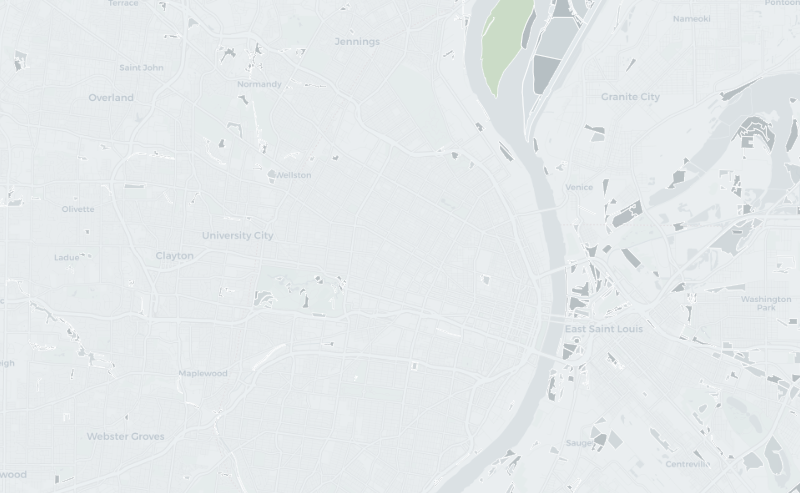
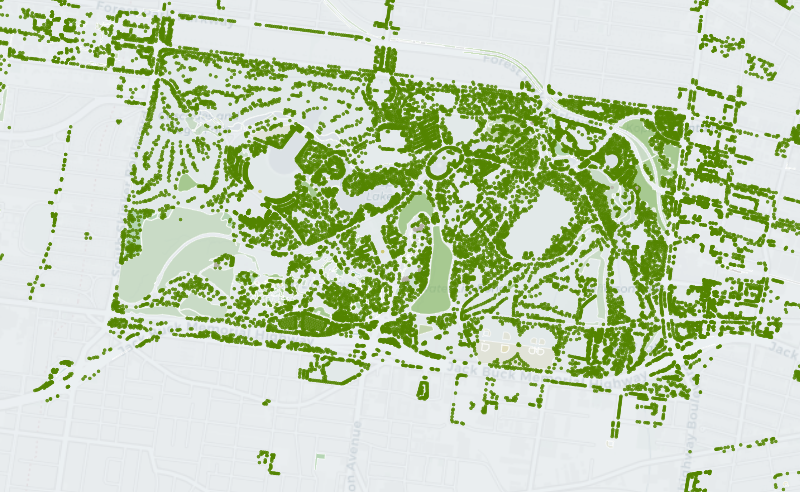
Tile addresses locally, unwash the land style, true up the numbers
Overture's global addresses tileset only exists at z14 and carries no
St. Louis data — and the gap is in the theme itself: the extract's 99k
points are all county/Illinois fringe (Wellston, Ferguson, Jennings,
Cahokia), with the city proper empty. So overture-addresses becomes the
one Overture collection tiled locally (OVERTURE_LOCAL in make_pmtiles),
z0-14 from its own parquet; styles, collection links, tests, and docs
all follow, and the description says plainly where the points are and
are not.

overture-land's default style painted the whole frame grey: below z13
the land layer is mostly the bare landmass polygon with no subtype, and
the match fallback colored it. Classed features only now, and the
thumbnail frames Forest Park at the zoom where its 61k trees exist.

Thumbnail renderer now declares each local archive's real maxzoom, so
close-ups past it overzoom instead of requesting tiles that don't exist.

Root description: 61 datasets / 7.3M rows (was 51 / 6.6M — the city-only
numbers), and the README example queries the post-reorg topic paths.

diff --git a/tools/make_styles.py b/tools/make_styles.py
@@ -1661,8 +1661,13 @@ from sources import OVERTURE_TILES, SOURCES as _ALL_SOURCES
 
 
 def ostyle(coll_id, name, description, layers, legend=None, legend_layer=None,
-           no_legend=False):
-    """Like style(), but sourced from Overture's remote theme pmtiles."""
+           no_legend=False, local=False):
+    """Like style(), but sourced from Overture's remote theme pmtiles.
+
+    local=True instead sources the collection's own clipped tiles (see
+    OVERTURE_LOCAL in make_pmtiles.py — addresses, whose global tileset has
+    no St. Louis coverage); layers then target source-layer == coll_id.
+    """
     theme = _ALL_SOURCES[coll_id]["theme"]
     if legend is not None:
         layers = [{
@@ -1675,13 +1680,13 @@ def ostyle(coll_id, name, description, layers, legend=None, legend_layer=None,
     meta = {"description": description}
     if no_legend:
         meta["legend"] = "none"
+    src_url = (f"pmtiles://../{coll_id}.pmtiles" if local
+               else f"pmtiles://{OVERTURE_TILES}/{theme}.pmtiles")
     obj = {
         "version": 8,
         "name": name,
         "metadata": meta,
-        "sources": {"data": {
-            "type": "vector",
-            "url": f"pmtiles://{OVERTURE_TILES}/{theme}.pmtiles"}},
+        "sources": {"data": {"type": "vector", "url": src_url}},
         "layers": layers,
     }
     if any(l["type"] == "symbol" for l in layers):
@@ -1849,22 +1854,27 @@ emit("overture-places", "style-confidence", ostyle(
                                    13, 2.5, 16, 5], stroke="#FFFFFF")],
     legend=PLACE_CONF, legend_layer="place"))
 
-# overture-addresses — 99k address points, z14 tiles only
+# overture-addresses — 99k address points. The one Overture collection on
+# LOCAL tiles: the global addresses tileset has no St. Louis coverage, so
+# these styles read the clipped z0-14 archive built by make_pmtiles.py.
 emit("overture-addresses", "default", ostyle(
     "overture-addresses", "Address points",
-    "Every address point in the box, in the catalog blue. The tiles carry "
-    "addresses only at z14 — zoom to street level to see them.",
-    [ocircle("address", BLUE, ["interpolate", ["linear"], ["zoom"],
-                               13, 1.5, 17, 4], stroke="#FFFFFF")]),
+    "Every address point in the box, in the catalog blue. Overture has no "
+    "address data for the city proper yet, so the points ring it — the "
+    "county and Illinois fringe. Thinned at overview zooms, complete "
+    "from z14.",
+    [ocircle("overture-addresses", BLUE,
+             ["interpolate", ["linear"], ["zoom"], 10, 1, 13, 1.5, 17, 4],
+             stroke="#FFFFFF")], local=True),
     default=True)
 emit("overture-addresses", "style-postcode", ostyle(
     "overture-addresses", "Postcode mosaic",
     "Repeating colors keyed on ZIP code, so postal boundaries emerge from "
     "the address points themselves. Colors are arbitrary.",
-    [ocircle("address", repeat_fill(["to-number", ["get", "postcode"]]),
-             ["interpolate", ["linear"], ["zoom"], 13, 1.5, 17, 4])],
+    [ocircle("overture-addresses", repeat_fill(["to-number", ["get", "postcode"]]),
+             ["interpolate", ["linear"], ["zoom"], 10, 1, 13, 1.5, 17, 4])],
     legend=repeat_fill(["to-number", ["get", "postcode"]]),
-    legend_layer="address", no_legend=True))
+    legend_layer="overture-addresses", no_legend=True, local=True))
 
 # overture-divisions — 283 features across three types. The country and
 # region areas are bbox clips of the full US/Missouri/Illinois polygons —
@@ -1947,15 +1957,19 @@ LAND_SUBTYPE = match("subtype", {
     "grass": "#95c68f", "sand": "#e0d59f", "rock": "#b6b1a8",
     "wetland": "#8fc6c0", "physical": "#c9c25e", "land": LIGHT}, GRAY)
 
+# Below z13 Overture's land layer is mostly the bare landmass polygon with
+# no subtype at all; unfiltered, the match fallback painted the whole map a
+# flat grey wash. Draw only classed features.
 emit("overture-land", "default", ostyle(
     "overture-land", "Land by subtype",
     "Physical land surfaces from OSM natural tags — forest, shrub, grass, "
     "sand, rock, wetland as polygons, and 61,000 individual trees as green "
-    "points.",
-    [ofill("land", LAND_SUBTYPE, 0.6, "#FFFFFF", filt=ONLY_POLY),
+    "points. The trees live at z13+ in the tiles — zoom in to see them.",
+    [ofill("land", LAND_SUBTYPE, 0.6, "#FFFFFF",
+           filt=["all", ONLY_POLY, ["has", "subtype"]]),
      ocircle("land", LAND_SUBTYPE,
              ["interpolate", ["linear"], ["zoom"], 10, 1, 14, 2.5, 16, 4],
-             filt=ONLY_POINT)],
+             filt=["all", ONLY_POINT, ["has", "subtype"]])],
     legend=LAND_SUBTYPE, legend_layer="land"), default=True)
 emit("overture-land", "style-trees", ostyle(
     "overture-land", "Trees",

diff --git a/tools/finalize_stac.py b/tools/finalize_stac.py
@@ -488,7 +488,17 @@ def finalize_overture(coll_id: str, coll_dir, f, coll: dict, src: dict) -> None:
         HOST,
     ]
 
-    tiles_url = f"{OVERTURE_TILES}/{src['theme']}.pmtiles"
+    # Addresses is the one Overture collection with locally built tiles —
+    # the global addresses tileset has no St. Louis coverage (see
+    # OVERTURE_LOCAL in make_pmtiles.py). Local archive present ⇒ local
+    # link/asset, exactly like a city collection.
+    local_pm = coll_dir / f"{coll_id}.pmtiles"
+    if local_pm.exists():
+        tiles_url = f"./{coll_id}.pmtiles"
+        pm_layers = [coll_id]
+    else:
+        tiles_url = f"{OVERTURE_TILES}/{src['theme']}.pmtiles"
+        pm_layers = list(src["types"])
     links = [l for l in coll.get("links", [])
              if l["rel"] not in ("self", "via", "pmtiles")]
     ensure_link(links, "describedby", "./README.md", "text/markdown")
@@ -504,7 +514,7 @@ def finalize_overture(coll_id: str, coll_dir, f, coll: dict, src: dict) -> None:
                 f"(theme={src['theme']}) on S3")
     links.append({"rel": "pmtiles", "href": tiles_url,
                   "type": "application/vnd.pmtiles",
-                  "pmtiles:layers": list(src["types"])})
+                  "pmtiles:layers": pm_layers})
     for l in links:
         if l["rel"] == "root":
             l["href"] = "../../catalog.json"
@@ -517,21 +527,35 @@ def finalize_overture(coll_id: str, coll_dir, f, coll: dict, src: dict) -> None:
     coll["links"] = links
 
     assets = coll.get("assets", {})
-    tiles = {
-        "href": tiles_url,
-        "type": "application/vnd.pmtiles",
-        "roles": ["visual"],
-        "title": f"Overture {src['theme']} theme (PMTiles, global)",
-        "description": (
-            "Overture's own release-pinned global vector tiles for the "
-            f"{src['theme']} theme, served from the Overture Maps "
-            "Foundation's public bucket — not from this mirror, and not "
-            "clipped to St. Louis. The styles select this collection's "
-            f"layers ({', '.join(src['types'])}) from them."),
-    }
-    size = overture_tile_size(src["theme"])
-    if size:
-        tiles["file:size"] = size
+    if local_pm.exists():
+        tiles = {
+            "href": tiles_url,
+            "type": "application/vnd.pmtiles",
+            "roles": ["visual"],
+            "title": f"{src['title']} (PMTiles)",
+            "description": (
+                "Vector tiles built from this collection's own clipped "
+                "GeoParquet — Overture's global addresses tileset has no "
+                "St. Louis coverage, so this mirror tiles the theme "
+                "locally."),
+        }
+        stamp_asset(coll_dir, tiles_url, tiles)
+    else:
+        tiles = {
+            "href": tiles_url,
+            "type": "application/vnd.pmtiles",
+            "roles": ["visual"],
+            "title": f"Overture {src['theme']} theme (PMTiles, global)",
+            "description": (
+                "Overture's own release-pinned global vector tiles for the "
+                f"{src['theme']} theme, served from the Overture Maps "
+                "Foundation's public bucket — not from this mirror, and not "
+                "clipped to St. Louis. The styles select this collection's "
+                f"layers ({', '.join(src['types'])}) from them."),
+        }
+        size = overture_tile_size(src["theme"])
+        if size:
+            tiles["file:size"] = size
     assets[f"{coll_id}-tiles"] = tiles
     if (coll_dir / "thumbnail.png").exists() and "thumbnail" not in assets:
         assets["thumbnail"] = {
@@ -571,7 +595,8 @@ def finalize_overture(coll_id: str, coll_dir, f, coll: dict, src: dict) -> None:
     coll["assets"] = assets
 
     f.write_text(json.dumps(coll, indent=2) + "\n")
-    print(f"✓ {coll_id}: {len(style_files)} style assets, remote Overture "
+    origin = "local" if local_pm.exists() else "remote Overture"
+    print(f"✓ {coll_id}: {len(style_files)} style assets, {origin} "
           f"pmtiles ({src['theme']})")
 
 

diff --git a/tests/test_catalog.py b/tests/test_catalog.py
@@ -185,17 +185,26 @@ def check_collection(coll_dir: Path):
             err(f"{cid}/{sf.name}: not version 8")
         src = s.get("sources", {}).get("data", {})
         if ov:
-            # Overture styles read the remote theme tiles; their layers name
-            # the Overture types (plus the inert legend layer, which targets
-            # one of them).
+            # Overture styles read the remote theme tiles and their layers
+            # name the Overture types — except collections tiled locally
+            # (OVERTURE_LOCAL in make_pmtiles.py: the global addresses
+            # tileset has no St. Louis coverage), which follow the city
+            # collections' local form. The style's own URL says which.
             from sources import OVERTURE_TILES
+            local_url = f"pmtiles://../{cid}.pmtiles"
             want_url = f"pmtiles://{OVERTURE_TILES}/{ov['theme']}.pmtiles"
-            if src.get("type") == "vector" and src.get("url") != want_url:
-                err(f"{cid}/{sf.name}: bad pmtiles url {src.get('url')}")
-            for layer in s.get("layers", []):
-                if layer.get("source-layer") not in ov["types"]:
-                    err(f"{cid}/{sf.name}: layer {layer.get('id')} "
-                        f"source-layer not in {ov['types']}")
+            if src.get("url") == local_url:
+                for layer in s.get("layers", []):
+                    if layer.get("source-layer") != cid:
+                        err(f"{cid}/{sf.name}: layer {layer.get('id')} "
+                            f"source-layer != {cid}")
+            else:
+                if src.get("type") == "vector" and src.get("url") != want_url:
+                    err(f"{cid}/{sf.name}: bad pmtiles url {src.get('url')}")
+                for layer in s.get("layers", []):
+                    if layer.get("source-layer") not in ov["types"]:
+                        err(f"{cid}/{sf.name}: layer {layer.get('id')} "
+                            f"source-layer not in {ov['types']}")
         else:
             if src.get("type") == "vector" and src.get("url") != f"pmtiles://../{cid}.pmtiles":
                 err(f"{cid}/{sf.name}: bad pmtiles url {src.get('url')}")

diff --git a/tools/make_pmtiles.py b/tools/make_pmtiles.py
@@ -76,7 +76,19 @@ TILING = {
         "maxzoom": 15, "cap": 800_000,
         "columns": ["HANDLE", "SITEADDR", "AbatementStartYear",
                     "AbatementEndYear", "WARD", "NBRHD"]},
+    "overture-addresses": {
+        "maxzoom": 14, "cap": 800_000,
+        "columns": ["number", "street", "unit", "postcode", "postal_city",
+                    "country"]},
 }
+
+# Overture collections ride Overture's own release-pinned global theme tiles
+# and get no local tiles — with one exception: addresses. Overture's global
+# addresses tileset only exists at z14 and its data has no City of St. Louis
+# coverage at all — the extract's ~99k points are the county/Illinois fringe
+# inside the bbox — so what points there are get tiled here from the clipped
+# parquet at all zooms, like any city collection.
+OVERTURE_LOCAL = {"overture-addresses"}
 
 
 def make(coll_id: str) -> None:
@@ -130,6 +142,9 @@ def main() -> int:
             continue
         if coll_id == "property-sales":  # tabular, no tiles
             continue
+        if (SOURCES[coll_id].get("type") == "overture"
+                and coll_id not in OVERTURE_LOCAL):
+            continue  # remote theme tiles; see OVERTURE_LOCAL
         try:
             make(coll_id)
         except Exception as e:  # noqa: BLE001

diff --git a/tools/make_agents.py b/tools/make_agents.py
@@ -385,7 +385,8 @@ def collection_agents(coll_id: str) -> str:
     out += ["", "## Access", "", "```sql",
             "INSTALL httpfs; LOAD httpfs;  -- DuckDB",
             f"SELECT * FROM '{url}' LIMIT 5;", "```", ""]
-    if geom and src["type"] == "overture":
+    local_pm = CATALOG / coll_rel(coll_id) / f"{coll_id}.pmtiles"
+    if geom and src["type"] == "overture" and not local_pm.exists():
         from sources import OVERTURE_TILES
         out += [f"PMTiles for maps: Overture's own global theme tiles at "
                 f"`{OVERTURE_TILES}/{src['theme']}.pmtiles` "
@@ -484,7 +485,9 @@ AGENTS.md with fields, quirks, and joins.
 - The 10 `overture-*` collections are NOT city data: they are St. Louis
   bbox extracts of Overture Maps Foundation global datasets (keyword
   `overture`), included to show the catalog blending in outside data. Their
-  PMTiles are Overture's own global theme tiles, not files in this catalog.
+  PMTiles are Overture's own global theme tiles, not files in this catalog
+  (except `overture-addresses`, tiled locally — the global addresses
+  tileset has no St. Louis coverage).
 - The catalog is a mirror, not an official city service. `updated` on each
   object is the sync time.
 """

diff --git a/catalog/urban-development-and-planning/overture-addresses/AGENTS.md b/catalog/urban-development-and-planning/overture-addresses/AGENTS.md
@@ -2,7 +2,7 @@
 
 Address points from the Overture addresses theme (currently in Alpha). An address represents a physical place through a series of attributes — street number, street name, unit, address levels, postal code, and/or country — together with a point geometry giving the approximate location most commonly associated with it. The theme aggregates open government address datasets, each carrying its own permissive open license, recorded per feature in the `sources` column. Useful for geocoding, validation, and conflation with buildings and places.
 
-Unlike everything else in this catalog, this is **not** City of St. Louis data: it comes from the [Overture Maps Foundation](https://overturemaps.org/), a collaborative project building open, interoperable map data for the world. This collection is a St. Louis extract of that global dataset — everything inside the city's bounding box, which also takes in the Illinois shore of the Mississippi (East St. Louis, Cahokia Heights) — included here to demonstrate how a city's open-data catalog can blend in other St. Louis-relevant open data alongside the city's own. The GeoParquet was extracted from Overture release 2026-07-22.0; the map tiles reference Overture's own global PMTiles for the same release, the tiles behind [explore.overturemaps.org](https://explore.overturemaps.org/).
+Unlike everything else in this catalog, this is **not** City of St. Louis data: it comes from the [Overture Maps Foundation](https://overturemaps.org/), a collaborative project building open, interoperable map data for the world. This collection is a St. Louis extract of that global dataset — everything inside the city's bounding box, which also takes in the Illinois shore of the Mississippi (East St. Louis, Cahokia Heights) — included here to demonstrate how a city's open-data catalog can blend in other St. Louis-relevant open data alongside the city's own. The GeoParquet was extracted from Overture release 2026-07-22.0. **Coverage caveat:** the theme's aggregated government datasets do not yet include the City of St. Louis itself — the ~99,000 points here are the St. Louis County and Illinois fringe that falls inside the bounding box (Wellston, Ferguson, Jennings, Cahokia, and neighbors), with almost nothing between the city limits. Uniquely among the Overture collections here, the map tiles are built locally from this extract: Overture's own global address tiles are just as empty for St. Louis, and only exist at z14.
 
 99,070 rows; geometry: Point (WGS84 lon/lat unless noted).
 
@@ -13,7 +13,7 @@ INSTALL httpfs; LOAD httpfs;  -- DuckDB
 SELECT * FROM 'https://data.source.coop/tge-labs/st-louis-open-data-mirror/urban-development-and-planning/overture-addresses/overture-addresses.parquet' LIMIT 5;
 ```
 
-PMTiles for maps: Overture's own global theme tiles at `https://overturemaps-extras-us-west-2.s3.us-west-2.amazonaws.com/tiles/2026-07-22.0/addresses.pmtiles` (layers `address`), styled by `styles/*.json` — `styles/default.json` is the default. Not clipped to St. Louis: only the Parquet is the extract.
+PMTiles for maps: `https://data.source.coop/tge-labs/st-louis-open-data-mirror/urban-development-and-planning/overture-addresses/overture-addresses.pmtiles` (layer `overture-addresses`), styled by `styles/*.json` — `styles/default.json` is the default.
 
 ## Key fields
 

diff --git a/catalog/README.md b/catalog/README.md
@@ -2,13 +2,14 @@
 
 ![st-louis](https://img.shields.io/badge/st--louis-blue) ![missouri](https://img.shields.io/badge/missouri-blue) ![open-data](https://img.shields.io/badge/open--data-blue) ![city-government](https://img.shields.io/badge/city--government-blue) ![parcels](https://img.shields.io/badge/parcels-blue) ![boundaries](https://img.shields.io/badge/boundaries-blue) ![cloud-native](https://img.shields.io/badge/cloud--native-blue) ![geoparquet](https://img.shields.io/badge/geoparquet-blue) ![stac](https://img.shields.io/badge/stac-blue) ![pmtiles](https://img.shields.io/badge/pmtiles-blue)
 
-Cloud-native mirror of 51 datasets from the
+Cloud-native mirror of 61 datasets — about 7.3 million rows as GeoParquet
+and PMTiles with STAC metadata, organized into 11 topic catalogs. 51 come
+from the
 [City of St. Louis open data portal](https://www.stlouis-mo.gov/data/),
 the city's public ArcGIS servers, and its
-[ArcGIS Online organization](https://stlcity.maps.arcgis.com/): about 6.6
-million features as GeoParquet and PMTiles with STAC metadata, organized
-into 11 topic catalogs. Alongside the city's own data, 10 collections
-tagged `overture` carry St. Louis extracts of the
+[ArcGIS Online organization](https://stlcity.maps.arcgis.com/); alongside
+the city's own data, 10 collections tagged `overture` carry St. Louis
+extracts of the
 [Overture Maps Foundation](https://overturemaps.org/) global datasets —
 buildings, transportation, places, addresses, and more — demonstrating how
 a city catalog can blend in other locally relevant open data. Explore it

diff --git a/AGENTS.md b/AGENTS.md
@@ -38,8 +38,15 @@ lives in `catalog/` and is synced 1:1 to
    releases (`OVERTURE_SOURCES` in `tools/sources.py`, extracted by
    `tools/fetch_overture.py`; geometries clipped to the box). Their PMTiles
    are Overture's own release-pinned global theme tiles referenced by URL —
-   never build local tiles for them, and never hash the remote archives
-   (19–195 GB). Bumping `OVERTURE_RELEASE` means re-running
+   don't build local tiles for them, and never hash the remote archives
+   (19–195 GB). One exception, `OVERTURE_LOCAL` in `tools/make_pmtiles.py`:
+   `overture-addresses` is tiled locally from its clipped parquet like a
+   city collection — the global addresses tileset only exists at z14 and is
+   as good as empty here. The gap is in the theme itself: Overture has no
+   address data for the City of St. Louis proper; the extract's ~99k points
+   are the county/Illinois fringe inside the bbox (densest around
+   Wellston), which is why its styles, thumbnail frame, and description all
+   point there. Bumping `OVERTURE_RELEASE` means re-running
    fetch_overture → assemble → finalize so parquet, tile URLs, and styles
    move in lockstep. Descriptions live in `docs/overture-descriptions.json`
    (wording from Overture's docs — same never-invent rule) and every

diff --git a/catalog/AGENTS.md b/catalog/AGENTS.md
@@ -1,7 +1,7 @@
 # AGENTS.md — City of St. Louis Open Data (Cloud-Native Mirror)
 
 61 collections mirrored from the [City of St. Louis open data
-portal](https://www.stlouis-mo.gov/data/) as GeoParquet, 51 of them also as PMTiles. Everything is
+portal](https://www.stlouis-mo.gov/data/) as GeoParquet, 52 of them also as PMTiles. Everything is
 range-readable over HTTPS — no download needed.
 
 ## Access pattern
@@ -33,6 +33,8 @@ AGENTS.md with fields, quirks, and joins.
 - The 10 `overture-*` collections are NOT city data: they are St. Louis
   bbox extracts of Overture Maps Foundation global datasets (keyword
   `overture`), included to show the catalog blending in outside data. Their
-  PMTiles are Overture's own global theme tiles, not files in this catalog.
+  PMTiles are Overture's own global theme tiles, not files in this catalog
+  (except `overture-addresses`, tiled locally — the global addresses
+  tileset has no St. Louis coverage).
 - The catalog is a mirror, not an official city service. `updated` on each
   object is the sync time.

diff --git a/README.md b/README.md
@@ -20,7 +20,9 @@ Not an official city service.
   (buildings, transportation, places, addresses, divisions, and the base
   theme) — **not city data**, included to demonstrate blending other
   St. Louis-relevant open data into the catalog. Their map tiles reference
-  Overture's own release-pinned global PMTiles rather than files built here.
+  Overture's own release-pinned global PMTiles rather than files built here
+  (except `overture-addresses`, tiled locally — Overture's global address
+  tiles have no St. Louis coverage).
 - Every geo collection ships 2–5 MapLibre styles with legends — including
   the city's own ArcGIS renderer where the source was a live service, and
   Overture-Explorer-derived palettes for the Overture layers

diff --git a/catalog/urban-development-and-planning/overture-addresses/README.md b/catalog/urban-development-and-planning/overture-addresses/README.md
@@ -36,9 +36,10 @@ Unlike everything else in this catalog, this is **not** City of St. Louis data: 
 | File | Size | Checksum |
 |------|------|----------|
 | ./overture-addresses.parquet | 7.0 MB | 1220cd113806... |
-| https://overturemaps-extras-us-west-2.s3.us-west-2.amazonaws.com/tiles/2026-07-22.0/addresses.pmtiles | 22.8 GB | - |
-| ./styles/default.json | 931 B | 122028ca0a91... |
-| ./styles/style-postcode.json | 1.4 KB | 12201438ea7a... |
+| ./overture-addresses.pmtiles | 1.7 MB | 1220ffdb0c48... |
+| ./styles/default.json | 990 B | 12205e647e07... |
+| ./styles/style-postcode.json | 2.2 KB | 12205232b851... |
+| ./thumbnail.png | 236.2 KB | 12202fee1d05... |
 
 ## Quick Start
 
